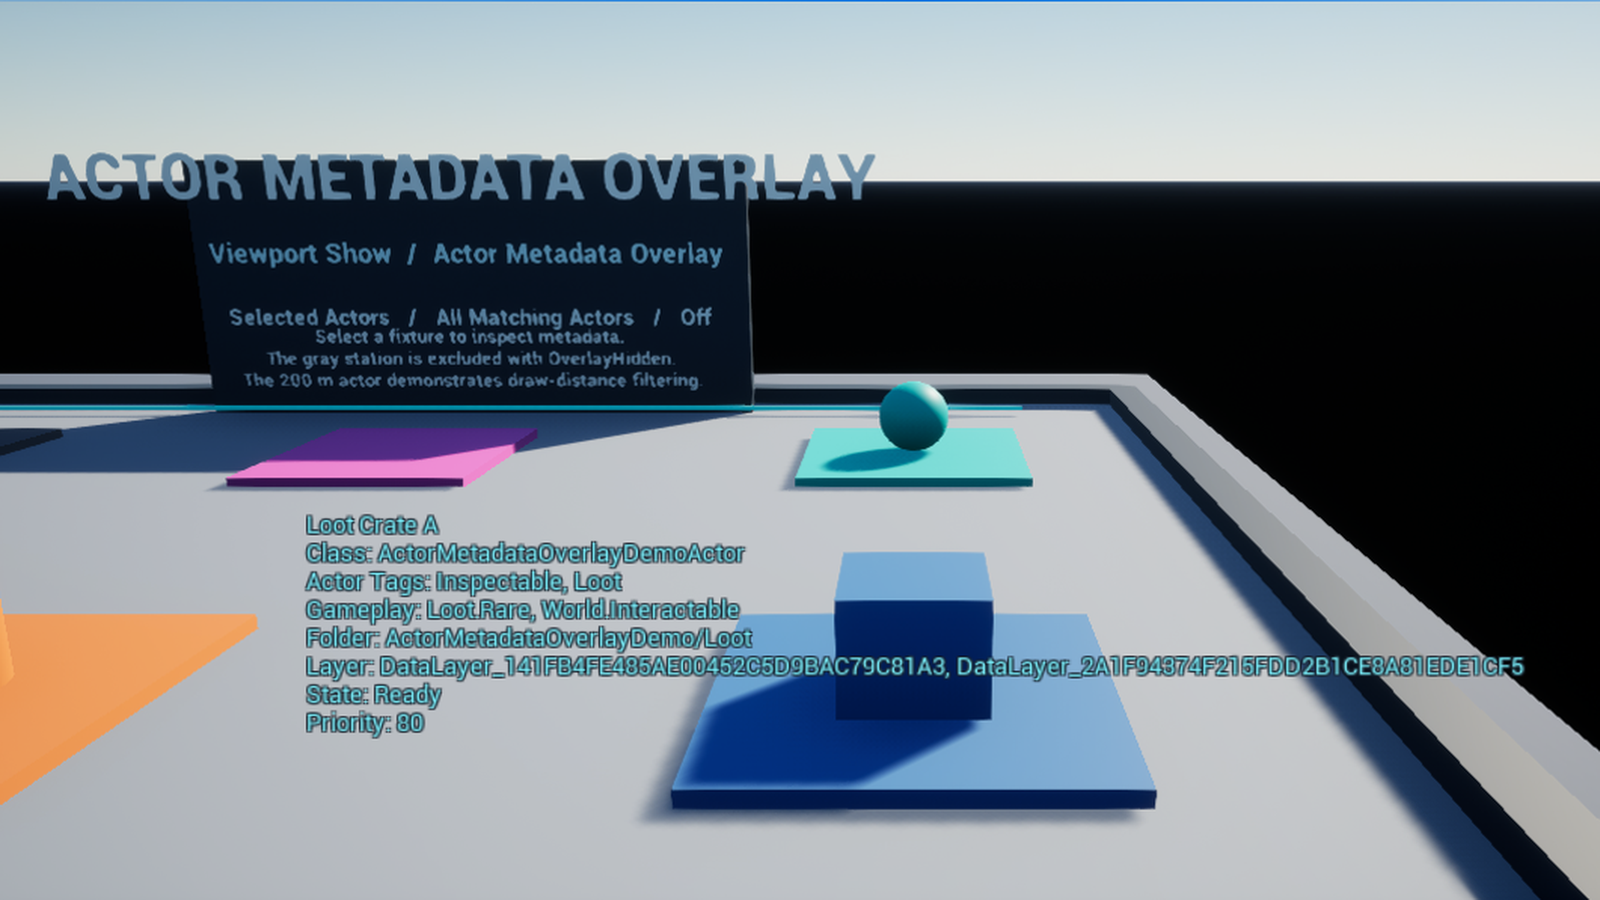
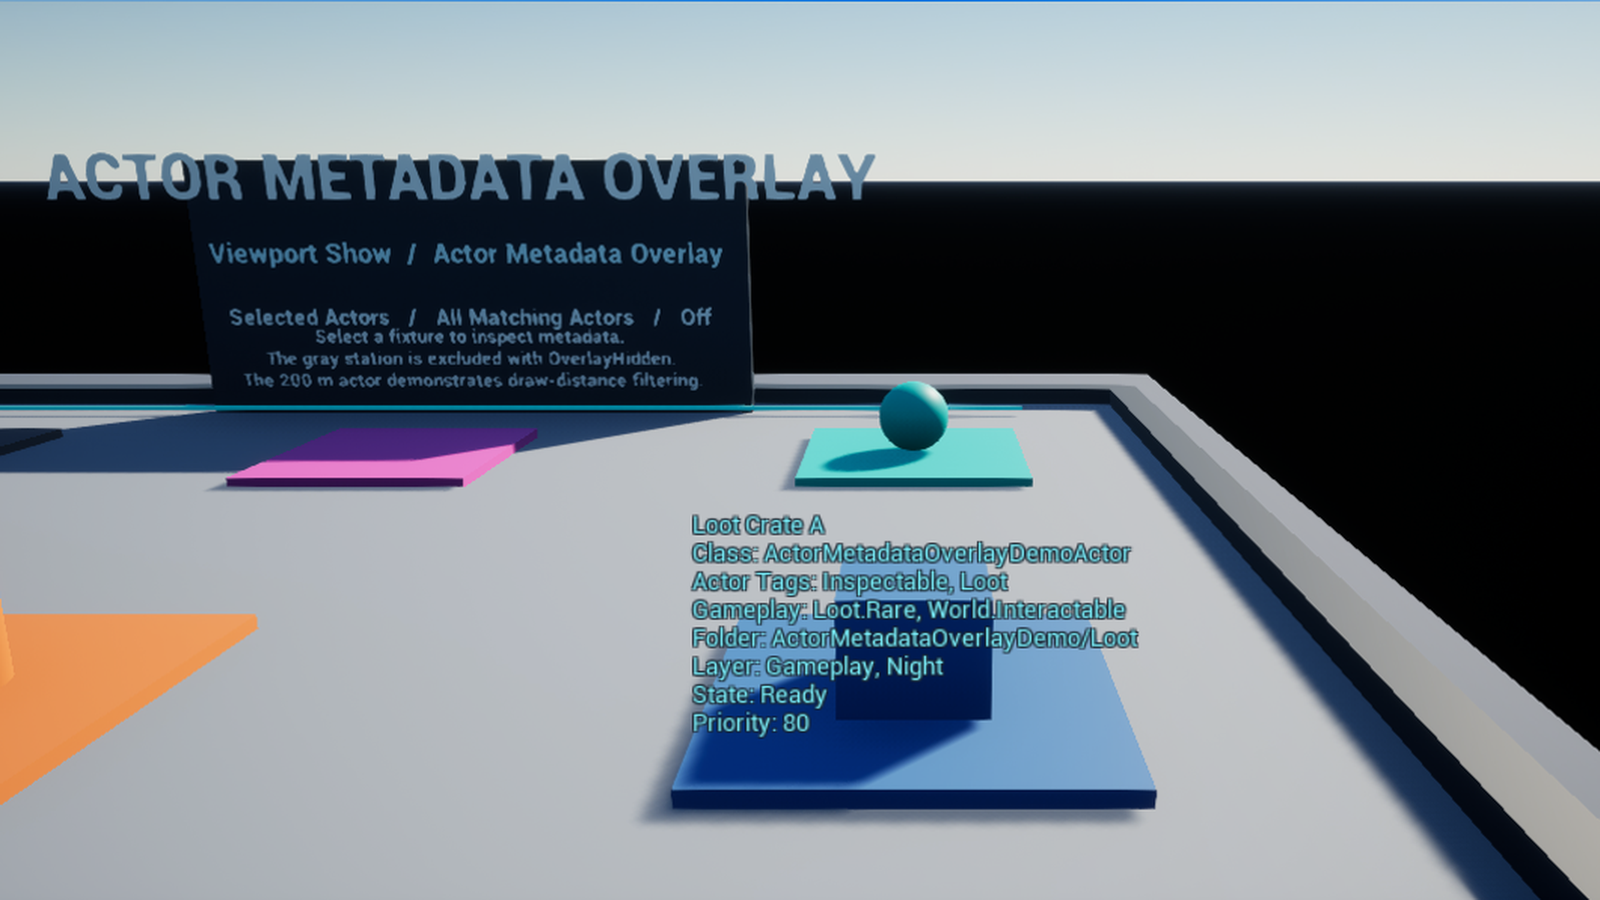
fix: finalize sample viewport presentation

Changed region(s): [[0.1875, 0.56, 0.9688, 0.84]]

diff --git a/Plugins/ActorMetadataOverlayDemoFixtures/Source/ActorMetadataOverlayDemoFixturesEditor/Private/ActorMetadataOverlayDemoFixturesEditor.cpp b/Plugins/ActorMetadataOverlayDemoFixtures/Source/ActorMetadataOverlayDemoFixturesEditor/Private/ActorMetadataOverlayDemoFixturesEditor.cpp
@@ -4,13 +4,15 @@
 #include "HAL/FileManager.h"
 #include "HAL/IConsoleManager.h"
 #include "LocationVolume.h"
+#include "LevelEditor.h"
+#include "LevelEditorViewport.h"
 #include "Misc/App.h"
 #include "Misc/FileHelper.h"
 #include "Misc/Paths.h"
 #include "Modules/ModuleManager.h"
 #include "Serialization/JsonReader.h"
 #include "Serialization/JsonSerializer.h"
-#include "Subsystems/UnrealEditorSubsystem.h"
+#include "Serialization/JsonWriter.h"
 #include "Widgets/SWindow.h"
 
 DEFINE_LOG_CATEGORY_STATIC(LogActorMetadataOverlayDemoFixturesEditor, Log, All);
@@ -19,6 +21,70 @@ namespace
 {
[1 lines of base64/hex data omitted]
     const FName DemoRegionName(TEXT("AMO_DemoRegion"));
+
+    bool TryResolveReviewOutputPath(
+        const FString& OutputArgument,
+        const TCHAR* RequiredExtension,
+        FString& OutOutputPath,
+        FString& OutAllowedRoot)
+    {
+        FString UnquotedArgument = OutputArgument;
+        UnquotedArgument.TrimQuotesInline();
+        OutOutputPath = FPaths::ConvertRelativePathToFull(UnquotedArgument);
+        OutAllowedRoot = FPaths::ConvertRelativePathToFull(
+            FPaths::ProjectDir() / TEXT(".verification/user-review"));
+        FPaths::MakeStandardFilename(OutOutputPath);
+        FPaths::MakeStandardFilename(OutAllowedRoot);
+        if (!OutAllowedRoot.EndsWith(TEXT("/"), ESearchCase::CaseSensitive))
+        {
+            OutAllowedRoot += TEXT("/");
+        }
+
+        return OutOutputPath.StartsWith(OutAllowedRoot, ESearchCase::IgnoreCase) &&
+               OutOutputPath.EndsWith(RequiredExtension, ESearchCase::IgnoreCase);
+    }
+
+    FLevelEditorViewportClient* FindActivePerspectiveLevelViewportClient()
+    {
+        if (!GEditor)
+        {
+            return nullptr;
+        }
+
+        FViewport* ActiveViewport = GEditor->GetActiveViewport();
+        for (FLevelEditorViewportClient* ViewportClient : GEditor->GetLevelViewportClients())
+        {
+            if (ViewportClient && ViewportClient->Viewport == ActiveViewport && ViewportClient->IsPerspective())
+            {
+                return ViewportClient;
+            }
+        }
+
+        return nullptr;
+    }
+
+    FLevelEditorViewportClient* FindPreferredPerspectiveLevelViewportClient()
+    {
+        if (FLevelEditorViewportClient* ActiveViewportClient = FindActivePerspectiveLevelViewportClient())
+        {
+            return ActiveViewportClient;
+        }
+
+        if (!GEditor)
+        {
+            return nullptr;
+        }
+
+        for (FLevelEditorViewportClient* ViewportClient : GEditor->GetLevelViewportClients())
+        {
+            if (ViewportClient && ViewportClient->IsPerspective())
+            {
+                return ViewportClient;
+            }
+        }
+
+        return nullptr;
+    }
 }
 
 class FActorMetadataOverlayDemoFixturesEditorModule final : public IModuleInterface
@@ -30,14 +96,23 @@ public:
             TEXT("ActorMetadataOverlayDemo.CaptureSlateDebugCanvas"),
             TEXT("Capture the active editor window, including the real Slate Debug Canvas, to a BMP under .verification/user-review."),
             FConsoleCommandWithArgsDelegate::CreateRaw(this, &FActorMetadataOverlayDemoFixturesEditorModule::CaptureSlateDebugCanvas));
+        WriteActiveViewportStateCommand = MakeUnique<FAutoConsoleCommand>(
+            TEXT("ActorMetadataOverlayDemo.WriteActiveViewportState"),
+            TEXT("Write the active Perspective Level Editor viewport state to a JSON file under .verification/user-review without changing it."),
+            FConsoleCommandWithArgsDelegate::CreateRaw(this, &FActorMetadataOverlayDemoFixturesEditorModule::WriteActiveViewportState));
         MapOpenedHandle = FEditorDelegates::OnMapOpened.AddRaw(this, &FActorMetadataOverlayDemoFixturesEditorModule::HandleMapOpened);
+        FLevelEditorModule& LevelEditorModule = FModuleManager::LoadModuleChecked<FLevelEditorModule>(TEXT("LevelEditor"));
+        LevelEditorCreatedHandle = LevelEditorModule.OnLevelEditorCreated().AddRaw(
+            this, &FActorMetadataOverlayDemoFixturesEditorModule::HandleLevelEditorCreated);
         TryLoadDemoRegion();
     }
 
     virtual void ShutdownModule() override
     {
         CaptureDebugCanvasCommand.Reset();
+        WriteActiveViewportStateCommand.Reset();
         RemoveMapOpenedDelegate();
+        RemoveLevelEditorCreatedDelegate();
     }
 
 private:
@@ -50,19 +125,9 @@ private:
             return;
         }
 
-        FString OutputArgument = Arguments[0];
-        OutputArgument.TrimQuotesInline();
-        FString OutputPath = FPaths::ConvertRelativePathToFull(OutputArgument);
-        FString AllowedRoot = FPaths::ConvertRelativePathToFull(
-            FPaths::ProjectDir() / TEXT(".verification/user-review"));
-        FPaths::MakeStandardFilename(OutputPath);
-        FPaths::MakeStandardFilename(AllowedRoot);
-        if (!AllowedRoot.EndsWith(TEXT("/"), ESearchCase::CaseSensitive))
-        {
-            AllowedRoot += TEXT("/");
-        }
-        if (!OutputPath.StartsWith(AllowedRoot, ESearchCase::IgnoreCase) ||
-            !OutputPath.EndsWith(TEXT(".bmp"), ESearchCase::IgnoreCase))
+        FString OutputPath;
+        FString AllowedRoot;
+        if (!TryResolveReviewOutputPath(Arguments[0], TEXT(".bmp"), OutputPath, AllowedRoot))
         {
             UE_LOG(LogActorMetadataOverlayDemoFixturesEditor, Error,
                 TEXT("CaptureSlateDebugCanvas rejected output path outside %s or without a .bmp extension: %s"),
@@ -102,7 +167,84 @@ private:
             ImageSize.Y);
     }
 
+    void WriteActiveViewportState(const TArray<FString>& Arguments)
+    {
+        if (Arguments.Num() != 1)
+        {
+            UE_LOG(LogActorMetadataOverlayDemoFixturesEditor, Error,
+                TEXT("WriteActiveViewportState requires exactly one JSON output path under .verification/user-review."));
+            return;
+        }
+
+        FString OutputPath;
+        FString AllowedRoot;
+        if (!TryResolveReviewOutputPath(Arguments[0], TEXT(".json"), OutputPath, AllowedRoot))
+        {
+            UE_LOG(LogActorMetadataOverlayDemoFixturesEditor, Error,
+                TEXT("WriteActiveViewportState rejected output path outside %s or without a .json extension: %s"),
+                *AllowedRoot,
+                *OutputPath);
+            return;
+        }
+
+        const FLevelEditorViewportClient* ViewportClient = FindActivePerspectiveLevelViewportClient();
+        const UWorld* World = GEditor ? GEditor->GetEditorWorldContext().World() : nullptr;
+        if (!ViewportClient || !World)
+        {
+            UE_LOG(LogActorMetadataOverlayDemoFixturesEditor, Error,
+                TEXT("WriteActiveViewportState could not resolve the active Perspective Level Editor viewport."));
+            return;
+        }
+
+        const FVector Location = ViewportClient->GetViewLocation();
+        const FRotator Rotation = ViewportClient->GetViewRotation();
+        TSharedRef<FJsonObject> State = MakeShared<FJsonObject>();
+        State->SetStringField(TEXT("map"), World->GetOutermost()->GetName());
+        State->SetBoolField(TEXT("perspective"), ViewportClient->IsPerspective());
+        State->SetArrayField(TEXT("location"), {
+            MakeShared<FJsonValueNumber>(Location.X),
+            MakeShared<FJsonValueNumber>(Location.Y),
+            MakeShared<FJsonValueNumber>(Location.Z)});
+        State->SetArrayField(TEXT("rotation"), {
+            MakeShared<FJsonValueNumber>(Rotation.Pitch),
+            MakeShared<FJsonValueNumber>(Rotation.Yaw),
+            MakeShared<FJsonValueNumber>(Rotation.Roll)});
+        State->SetNumberField(TEXT("fov"), ViewportClient->ViewFOV);
+
+        FString SerializedState;
+        const TSharedRef<TJsonWriter<>> Writer = TJsonWriterFactory<>::Create(&SerializedState);
+        if (!FJsonSerializer::Serialize(State, Writer))
+        {
+            UE_LOG(LogActorMetadataOverlayDemoFixturesEditor, Error,
+                TEXT("WriteActiveViewportState could not serialize viewport state for %s."),
+                *OutputPath);
+            return;
+        }
+
+        IFileManager::Get().MakeDirectory(*FPaths::GetPath(OutputPath), true);
+        if (!FFileHelper::SaveStringToFile(SerializedState, *OutputPath))
+        {
+            UE_LOG(LogActorMetadataOverlayDemoFixturesEditor, Error,
+                TEXT("WriteActiveViewportState could not save %s."),
+                *OutputPath);
+            return;
+        }
+
+        UE_LOG(LogActorMetadataOverlayDemoFixturesEditor, Display,
+            TEXT("ACTIVE_VIEWPORT_STATE_SAVED path=%s map=%s location=%s rotation=%s fov=%.6f"),
+            *OutputPath,
+            *World->GetOutermost()->GetName(),
+            *Location.ToString(),
+            *Rotation.ToString(),
+            ViewportClient->ViewFOV);
+    }
+
     void HandleMapOpened(const FString&, bool)
+    {
+        TryLoadDemoRegion();
+    }
+
+    void HandleLevelEditorCreated(TSharedPtr<ILevelEditor>)
     {
         TryLoadDemoRegion();
     }
@@ -113,6 +255,16 @@ private:
         {
             FEditorDelegates::OnMapOpened.Remove(MapOpenedHandle);
             MapOpenedHandle.Reset();
+        }
+    }
+
+    void RemoveLevelEditorCreatedDelegate()
+    {
+        if (LevelEditorCreatedHandle.IsValid() && FModuleManager::Get().IsModuleLoaded(TEXT("LevelEditor")))
+        {
+            FLevelEditorModule& LevelEditorModule = FModuleManager::GetModuleChecked<FLevelEditorModule>(TEXT("LevelEditor"));
+            LevelEditorModule.OnLevelEditorCreated().Remove(LevelEditorCreatedHandle);
+            LevelEditorCreatedHandle.Reset();
         }
     }
 
@@ -207,11 +359,20 @@ private:
 
         const TArray<TSharedPtr<FJsonValue>>* LocationValues = nullptr;
         const TArray<TSharedPtr<FJsonValue>>* RotationValues = nullptr;
+        double Fov = 0.0;
         if (!(*CameraObject)->TryGetArrayField(TEXT("location"), LocationValues) || !LocationValues || LocationValues->Num() != 3 ||
-            !(*CameraObject)->TryGetArrayField(TEXT("rotation"), RotationValues) || !RotationValues || RotationValues->Num() != 3)
+            !(*CameraObject)->TryGetArrayField(TEXT("rotation"), RotationValues) || !RotationValues || RotationValues->Num() != 3 ||
+            !(*CameraObject)->TryGetNumberField(TEXT("fov"), Fov))
         {
             UE_LOG(LogActorMetadataOverlayDemoFixturesEditor, Warning,
-                TEXT("demo-spec.json overviewCamera must contain three-value location and rotation arrays."));
+                TEXT("demo-spec.json overviewCamera must contain three-value location and rotation arrays plus a numeric fov; actual fov is missing or non-numeric."));
+            return;
+        }
+        if (!FMath::IsFinite(Fov) || Fov < 35.0 || Fov > 80.0)
+        {
+            UE_LOG(LogActorMetadataOverlayDemoFixturesEditor, Warning,
+                TEXT("demo-spec.json overviewCamera fov is invalid; actual=%.17g required=finite range=[35,80]."),
+                Fov);
             return;
         }
 
@@ -223,13 +384,54 @@ private:
             (*RotationValues)[0]->AsNumber(),
             (*RotationValues)[1]->AsNumber(),
             (*RotationValues)[2]->AsNumber());
-        if (UUnrealEditorSubsystem* EditorSubsystem = GEditor->GetEditorSubsystem<UUnrealEditorSubsystem>())
+        FLevelEditorViewportClient* ViewportClient = FindPreferredPerspectiveLevelViewportClient();
+        if (!ViewportClient)
         {
-            EditorSubsystem->SetLevelViewportCameraInfo(Location, Rotation);
-            bInitialViewportConfigured = true;
-            UE_LOG(LogActorMetadataOverlayDemoFixturesEditor, Display,
-                TEXT("Initial Overview Camera composition applied once for the Editor session."));
+            UE_LOG(LogActorMetadataOverlayDemoFixturesEditor, Warning,
+                TEXT("Initial Overview Camera composition could not find a Perspective Level Editor viewport; expected location=%s rotation=%s fov=%.6f."),
+                *Location.ToString(),
+                *Rotation.ToString(),
+                Fov);
+            return;
         }
+
+        ViewportClient->SetViewLocationForOrbiting(Location);
+        ViewportClient->SetViewLocation(Location);
+        ViewportClient->SetViewRotation(Rotation);
+        ViewportClient->ViewFOV = static_cast<float>(Fov);
+        ViewportClient->Invalidate(false, false);
+        if (ViewportClient->Viewport)
+        {
+            ViewportClient->Viewport->InvalidateDisplay();
+        }
+        GEditor->RedrawLevelEditingViewports(false);
+
+        const FVector ActualLocation = ViewportClient->GetViewLocation();
+        const FRotator ActualRotation = ViewportClient->GetViewRotation();
+        const float ActualFov = ViewportClient->ViewFOV;
+        const bool bViewportStateMatches =
+            ActualLocation.Equals(Location, 0.01) &&
+            ActualRotation.Equals(Rotation, 0.01) &&
+            FMath::IsNearlyEqual(ActualFov, static_cast<float>(Fov), 0.01f);
+        if (!bViewportStateMatches)
+        {
+            UE_LOG(LogActorMetadataOverlayDemoFixturesEditor, Warning,
+                TEXT("Initial Overview Camera verification failed; expected location=%s rotation=%s fov=%.6f actual location=%s rotation=%s fov=%.6f."),
+                *Location.ToString(),
+                *Rotation.ToString(),
+                Fov,
+                *ActualLocation.ToString(),
+                *ActualRotation.ToString(),
+                ActualFov);
+            return;
+        }
+
+        bInitialViewportConfigured = true;
+        UE_LOG(LogActorMetadataOverlayDemoFixturesEditor, Display,
+            TEXT("Initial Overview Camera composition applied once for the Editor session: location=%s rotation=%s fov=%.6f."),
+            *ActualLocation.ToString(),
+            *ActualRotation.ToString(),
+            ActualFov);
     }
 
     void WarnRegionProblem(const TCHAR* Reason)
@@ -249,7 +451,9 @@ private:
     }
 
     FDelegateHandle MapOpenedHandle;
+    FDelegateHandle LevelEditorCreatedHandle;
     TUniquePtr<FAutoConsoleCommand> CaptureDebugCanvasCommand;
+    TUniquePtr<FAutoConsoleCommand> WriteActiveViewportStateCommand;
     bool bRegionWarningIssued = false;
     bool bInitialViewportConfigured = false;
 };

diff --git a/Plugins/ActorMetadataOverlayDemoFixtures/Source/ActorMetadataOverlayDemoFixturesEditor/Private/ActorMetadataOverlayDemoTests.cpp b/Plugins/ActorMetadataOverlayDemoFixtures/Source/ActorMetadataOverlayDemoFixturesEditor/Private/ActorMetadataOverlayDemoTests.cpp
@@ -956,6 +956,11 @@ bool FActorMetadataSamplePresentationTest::RunTest(const FString& Parameters)
     TestTrue(TEXT("show mode text is present"), SignageText.Contains(TEXT("Viewport Show  /  Actor Metadata Overlay")));
 
     const TSharedPtr<FJsonObject> CameraSpec = Spec->GetObjectField(TEXT("overviewCamera"));
+    const double OverviewCameraFov = CameraSpec->GetNumberField(TEXT("fov"));
+    TestTrue(TEXT("overview camera FOV is finite and exactly 50"),
+        FMath::IsFinite(OverviewCameraFov) && FMath::IsNearlyEqual(OverviewCameraFov, 50.0, UE_DOUBLE_SMALL_NUMBER));
+    TestTrue(TEXT("overview camera FOV is within the supported initial viewport range"),
+        OverviewCameraFov >= 35.0 && OverviewCameraFov <= 80.0);
     int32 CameraNameCount = 0;
     AActor* CameraActor = ActorMetadataOverlayDemoTests::FindActorByName(World, CameraSpec->GetStringField(TEXT("actorName")), CameraNameCount);
     TestEqual(TEXT("overview camera is unique"), CameraNameCount, 1);
@@ -1017,6 +1022,40 @@ bool FActorMetadataSamplePresentationTest::RunTest(const FString& Parameters)
             CaptureModuleSource.Contains(TEXT("FSlateApplication::Get().TakeScreenshot")));
         TestTrue(TEXT("real overlay capture is confined to ignored review evidence"),
             CaptureModuleSource.Contains(TEXT(".verification/user-review")));
+        TestTrue(TEXT("initial viewport reads overviewCamera.fov as a number"),
+            CaptureModuleSource.Contains(TEXT("TryGetNumberField(TEXT(\"fov\")")));
+        TestTrue(TEXT("initial viewport rejects a non-finite FOV"),
+            CaptureModuleSource.Contains(TEXT("FMath::IsFinite(Fov)")));
+        TestTrue(TEXT("initial viewport enforces the 35 to 80 degree FOV range"),
+            CaptureModuleSource.Contains(TEXT("Fov < 35.0")) && CaptureModuleSource.Contains(TEXT("Fov > 80.0")));
+        TestTrue(TEXT("initial viewport targets a Perspective Level Editor viewport"),
+            CaptureModuleSource.Contains(TEXT("FLevelEditorViewportClient")) &&
+            CaptureModuleSource.Contains(TEXT("IsPerspective()")));
+        TestTrue(TEXT("initial viewport applies transient ViewFOV rather than persistent FOVAngle"),
+            CaptureModuleSource.Contains(TEXT("ViewFOV =")) &&
+            !CaptureModuleSource.Contains(TEXT("FOVAngle =")));
+        TestTrue(TEXT("initial viewport invalidates and redraws after applying FOV"),
+            CaptureModuleSource.Contains(TEXT("ViewportClient->Invalidate")) &&
+            CaptureModuleSource.Contains(TEXT("RedrawLevelEditingViewports")));
+        TestTrue(TEXT("initial viewport verifies location rotation and FOV together"),
+            CaptureModuleSource.Contains(TEXT("bViewportStateMatches")) &&
+            CaptureModuleSource.Contains(TEXT("GetViewLocation")) &&
+            CaptureModuleSource.Contains(TEXT("GetViewRotation")) &&
+            CaptureModuleSource.Contains(TEXT("ViewFOV")));
+
+        const int32 ViewportStateVerification = CaptureModuleSource.Find(TEXT("bViewportStateMatches"));
+        const int32 InitialViewportCompletion = CaptureModuleSource.Find(TEXT("bInitialViewportConfigured = true;"));
+        TestTrue(TEXT("initial viewport completion is recorded only after full state verification"),
+            ViewportStateVerification != INDEX_NONE &&
+            InitialViewportCompletion > ViewportStateVerification);
+        TestTrue(TEXT("initial viewport retains unattended Automation and commandlet skips"),
+            CaptureModuleSource.Contains(TEXT("FApp::IsUnattended()")) &&
+            CaptureModuleSource.Contains(TEXT("GIsAutomationTesting")) &&
+            CaptureModuleSource.Contains(TEXT("IsRunningCommandlet()")));
+        TestTrue(TEXT("same-session Overview reopen retains the one-time guard"),
+            CaptureModuleSource.Contains(TEXT("if (bInitialViewportConfigured")));
+        TestFalse(TEXT("initial viewport does not mutate persistent viewport preferences"),
+            CaptureModuleSource.Contains(TEXT("GetMutableDefault<ULevelEditorViewportSettings>")));
     }
 
     const FString UserConfig = ActorMetadataOverlayDemoTests::ReadProjectFile(TEXT("Config/DefaultEditorPerProjectUserSettings.ini"));

diff --git a/Plugins/ActorMetadataOverlayDemoFixtures/Source/ActorMetadataOverlayDemoFixturesEditor/ActorMetadataOverlayDemoFixturesEditor.Build.cs b/Plugins/ActorMetadataOverlayDemoFixtures/Source/ActorMetadataOverlayDemoFixturesEditor/ActorMetadataOverlayDemoFixturesEditor.Build.cs
@@ -17,6 +17,7 @@ public class ActorMetadataOverlayDemoFixturesEditor : ModuleRules
         {
             "EditorSubsystem",
             "UnrealEd",
+            "LevelEditor",
             "DataLayerEditor",
             "Json",
             "Slate",
